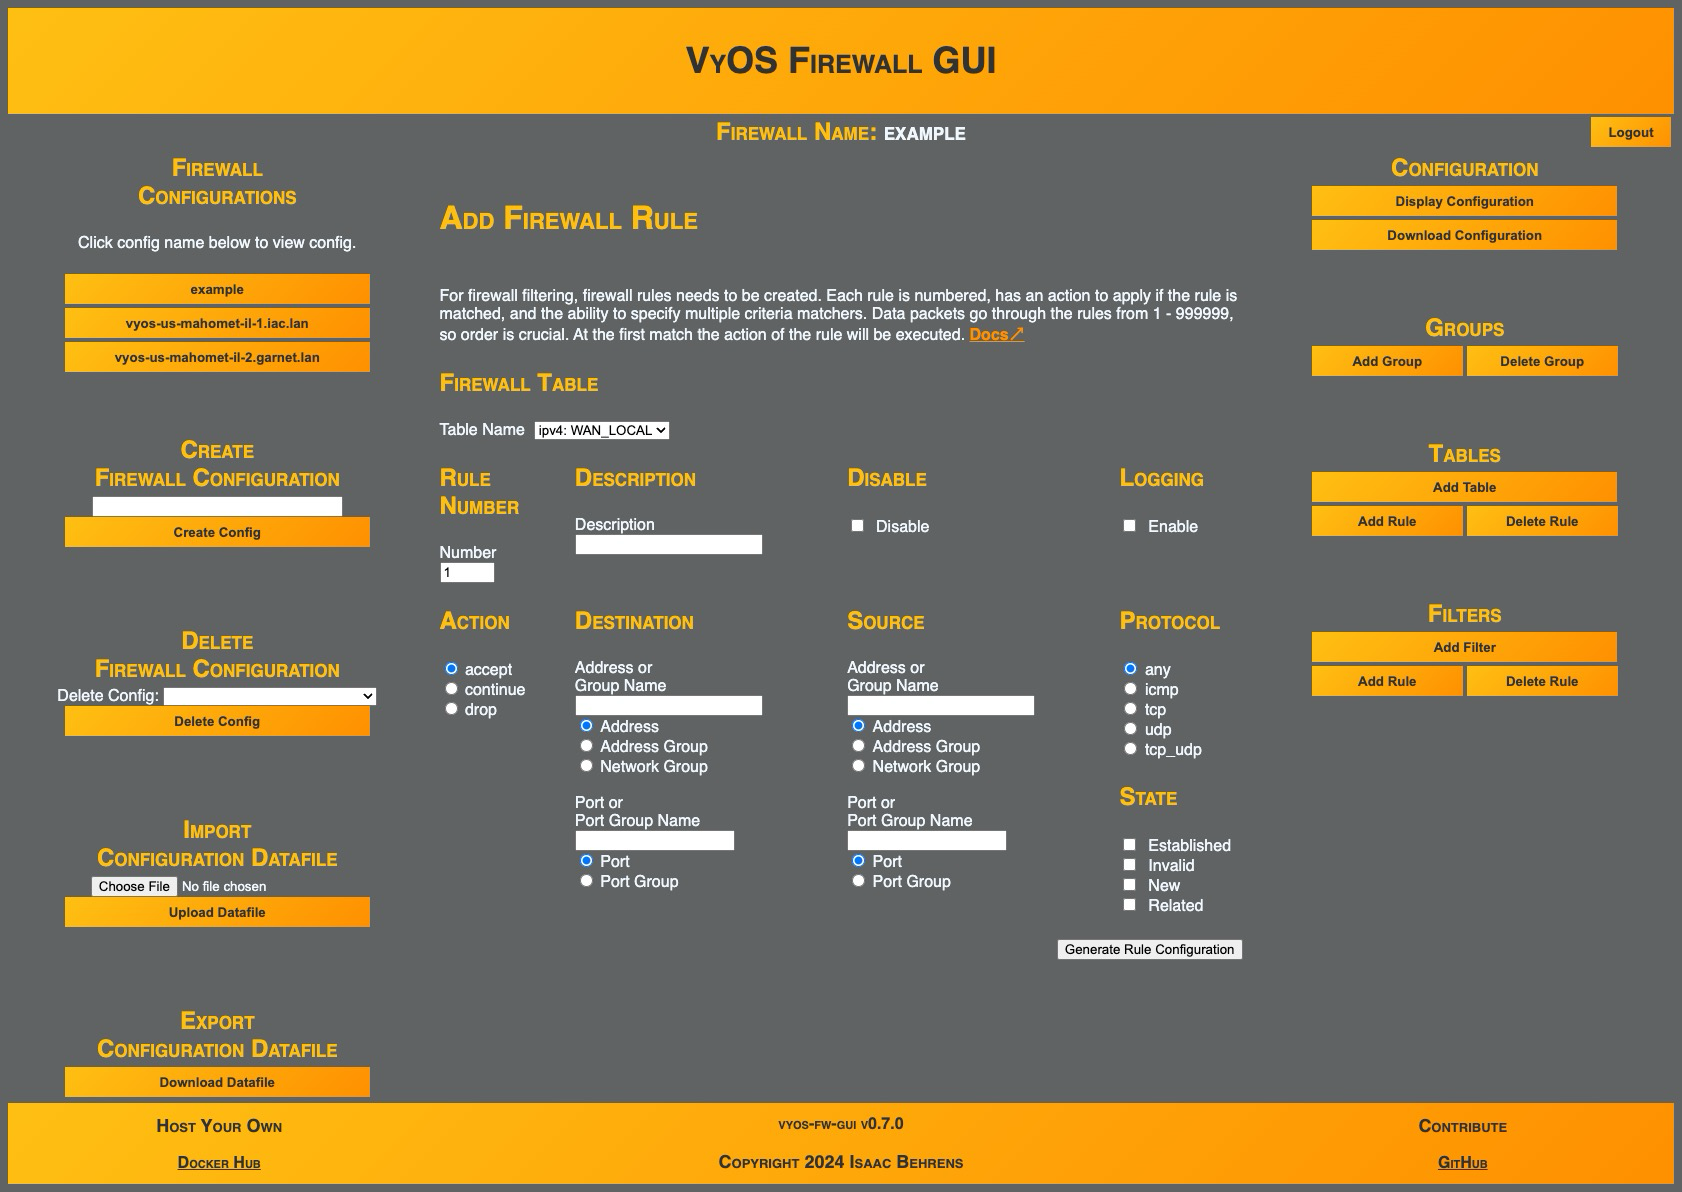
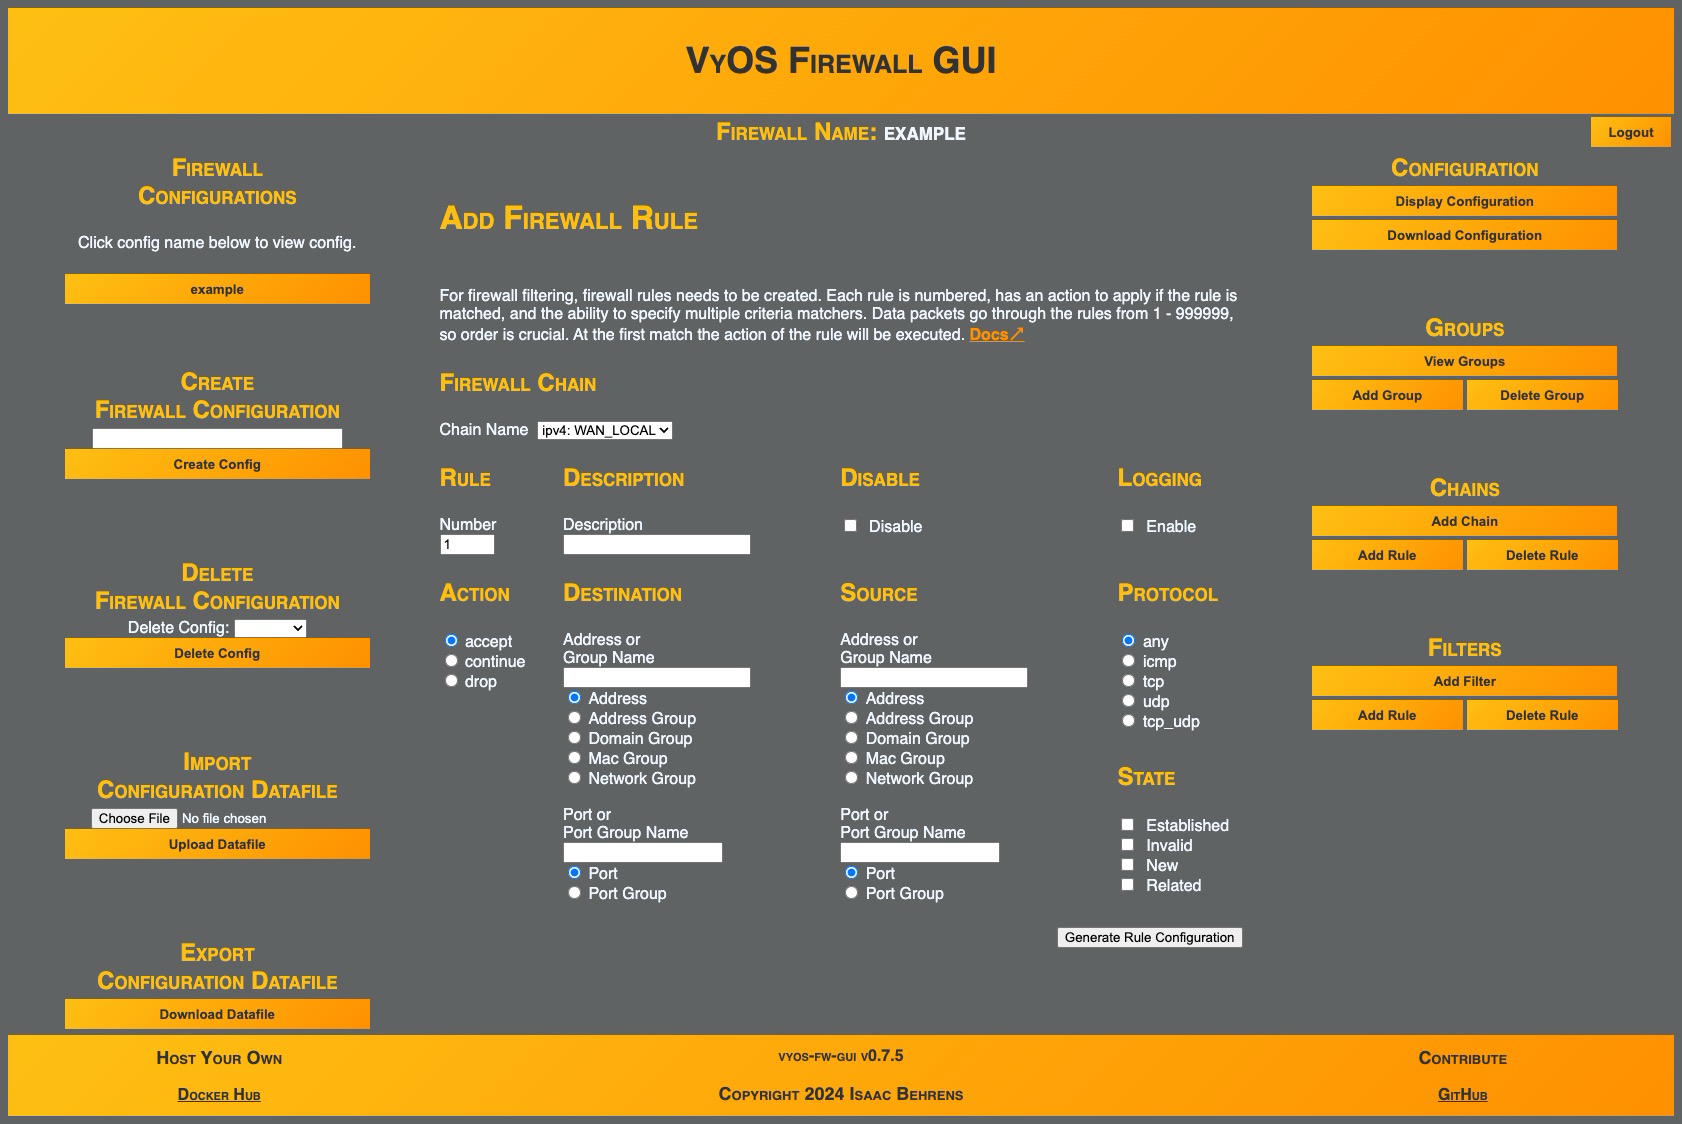
Update README.md and images.

diff --git a/package/generate_config.py b/package/generate_config.py
@@ -19,7 +19,7 @@ def generate_config(session):
     # Create firewall configuration
     config = []
 
-    if "ipv4" or "ipv6" not in user_data:
+    if "ipv4" not in user_data or "ipv6" not in user_data:
         config.append(
             "Empty rule set.  Start by adding a Chain using the button on the right."
         )

diff --git a/TODO.md b/TODO.md
@@ -13,7 +13,9 @@
 - [x] Implement stylesheets.
 - [ ] Further implement stylesheets.
 - [x] Add delete configuration option.
-- [ ] Display groups visually.
+- [x] Display groups visually.
+  - [ ] Make visual display of groups prettier.
+- [ ] Display chains visually.
 
 ## Design
 
@@ -28,12 +30,7 @@
       Another option if you dont want to have two hidden columns for the description vs textfield is to align it vertically instead as you did over at “Add firewall group” where the field name is in orange (on darkgrey), textfield and then tooltip below it if needed. drawback with vertical alignment is that this is less compact than doing it two-column style.
 
 - [x] Alignment of "choose file"
-
-      Similar to the “Choose file” at import to the left which doesnt seem to be centered over the yellow button as delete config selection is over its yellow button.
-
 - [x] Page borders
-
-      And the borders of the page would need some air aswell like at top between the yellow header and the darkgrey regular page. At bottom between “Download datafile” and the yellow footer. Or for that matter in the upper right where the logout button would need some air from both the header and the right side of the browser :slight_smile:
 
 ## Suggested updates/features
 
@@ -42,18 +39,9 @@
 ## Firewall functions
 
 - [ ] Flowtables?
-- [ ] Firewall group domain-group
+- [x] Firewall group domain-group
 - [x] Don't include empty fields like descriptions
-
-      When adding a group/table/flter the GUI incorrectly includes empty fields like so (the correct behaviour IMHO is that this config line should not be generated at all if its empty):
-
-      set firewall group address-group description 'asdasd'
-      set firewall group address-group address ''
-
-      set firewall ipv4 name ddsfds default-action 'drop'
-      set firewall ipv4 name ddsfds description ''
-
-- [ ] Wording for firewall tables?
+- [x] Update all references of tables to chains.
 - [ ] Text editor for config
 
       Another handy thing would be if the generated config would exist in a textarea with a “Update” button at bottom (or top).

diff --git a/README.md b/README.md
@@ -75,7 +75,7 @@ set firewall ipv4 forward filter rule 10 jump-target 'WAN_IN'
 
 
 #
-# Table: WAN_LOCAL
+# Chain: WAN_LOCAL
 #
 set firewall ipv4 name WAN_LOCAL default-action 'drop'
 set firewall ipv4 name WAN_LOCAL description 'WAN inbound to localhost.'
@@ -94,7 +94,7 @@ set firewall ipv4 name WAN_LOCAL rule 20 log
 set firewall ipv4 name WAN_LOCAL rule 20 state 'invalid'
 
 #
-# Table: WAN_IN
+# Chain: WAN_IN
 #
 set firewall ipv4 name WAN_IN default-action 'drop'
 set firewall ipv4 name WAN_IN description 'WAN inbound to LAN.'
@@ -168,7 +168,7 @@ set firewall ipv6 forward filter rule 10 jump-target 'WAN_IN'
 
 
 #
-# Table: WAN_LOCAL
+# Chain: WAN_LOCAL
 #
 set firewall ipv6 name WAN_LOCAL default-action 'drop'
 set firewall ipv6 name WAN_LOCAL description 'WAN inbound to localhost.'
@@ -192,7 +192,7 @@ set firewall ipv6 name WAN_LOCAL rule 30 action 'accept'
 set firewall ipv6 name WAN_LOCAL rule 30 protocol 'ipv6-icmp'
 
 #
-# Table: WAN_IN
+# Chain: WAN_IN
 #
 set firewall ipv6 name WAN_IN default-action 'drop'
 set firewall ipv6 name WAN_IN description 'WAN inbound to LAN.'
